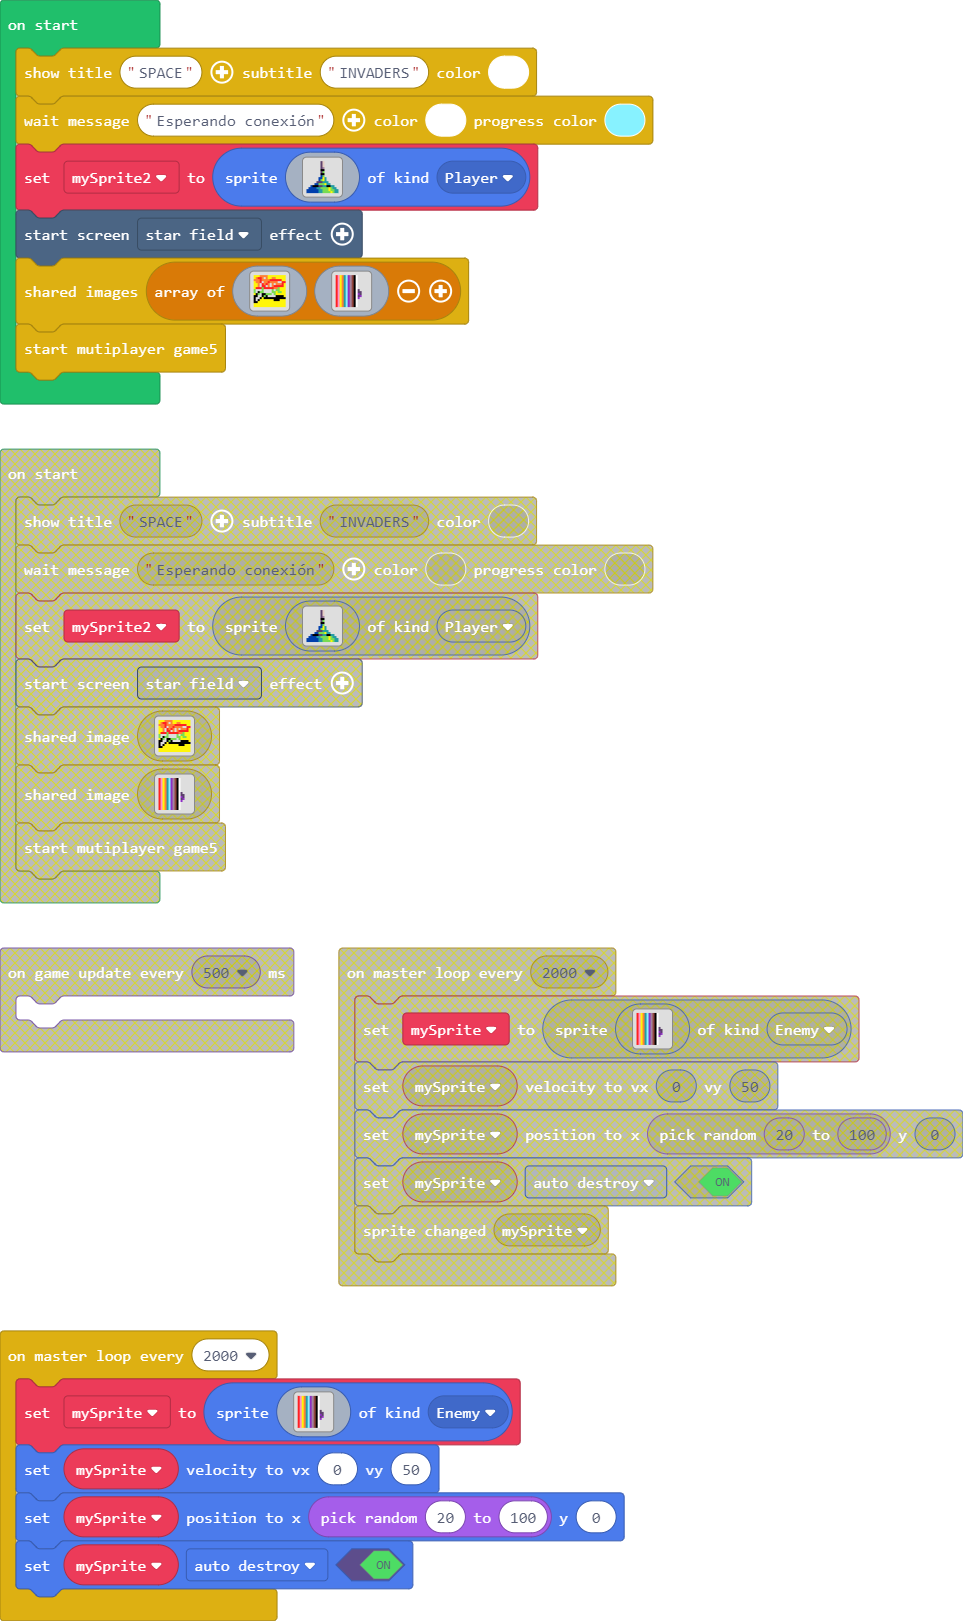
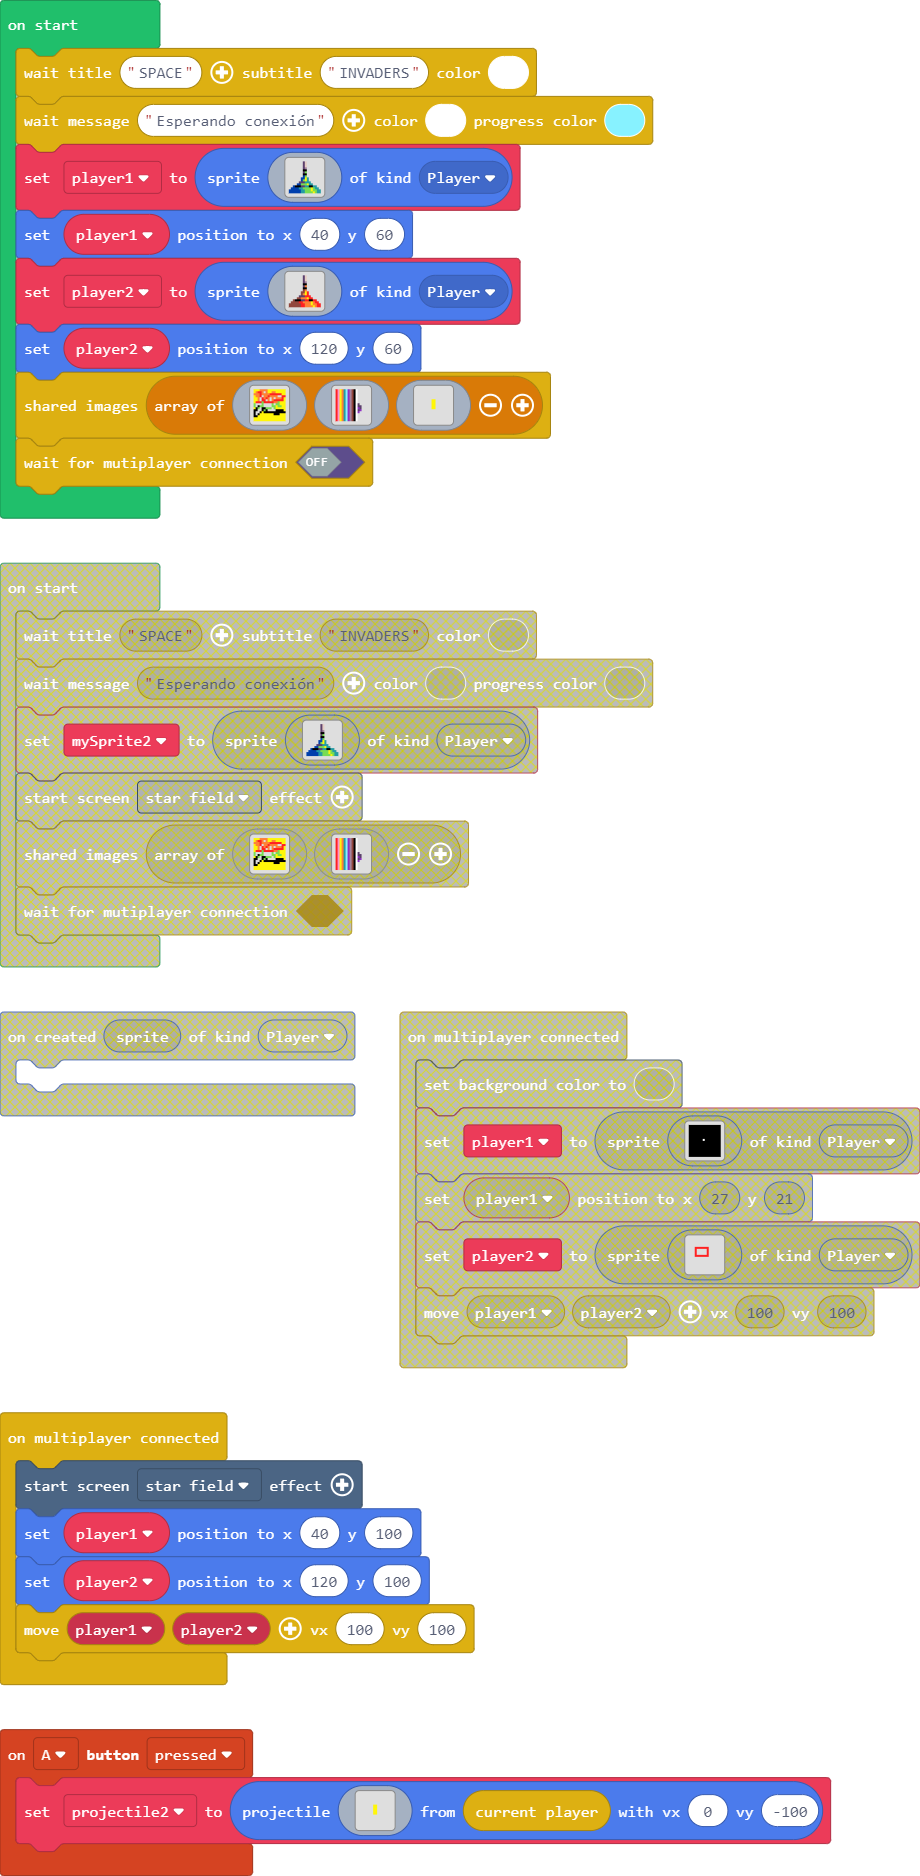
Update main.blocks, main.ts, multiplayer.ts

diff --git a/main.ts b/main.ts
@@ -21,56 +21,39 @@ multiplayer.onMasterLoop(2000, function () {
     mySprite.setPosition(Math.randomRange(20, 100), 0)
     mySprite.setFlag(SpriteFlag.AutoDestroy, true)
 })
-sprites.onCreated(SpriteKind.Player, function (sprite) {
-	
+controller.A.onEvent(ControllerButtonEvent.Pressed, function () {
+    projectile2 = sprites.createProjectileFromSprite(img`
+. . . . . . . . . . . . . . . . 
+. . . . . . . . . . . . . . . . 
+. . . . . . . . . . . . . . . . 
+. . . . . . . . . . . . . . . . 
+. . . . . . . . . . . . . . . . 
+. . . . . . . 5 5 . . . . . . . 
+. . . . . . . 5 5 . . . . . . . 
+. . . . . . . 5 5 . . . . . . . 
+. . . . . . . 5 5 . . . . . . . 
+. . . . . . . 5 5 . . . . . . . 
+. . . . . . . . . . . . . . . . 
+. . . . . . . . . . . . . . . . 
+. . . . . . . . . . . . . . . . 
+. . . . . . . . . . . . . . . . 
+. . . . . . . . . . . . . . . . 
+. . . . . . . . . . . . . . . . 
+`, multiplayer.CurrentPlayer(), 0, -100)
 })
 multiplayer.onConnected(function () {
-    scene.setBackgroundColor(4)
-    player1 = sprites.create(img`
-f f f f f f f f f f f f f f f f 
-f f f f f f f f f f f f f f f f 
-f f f f f f f f f f f f f f f f 
-f f f f f f f f f f f f f f f f 
-f f f f f f f f f f f f f f f f 
-f f f f f f f f f f f f f f f f 
-f f f f f f f f f f f f f f f f 
-f f f f f f f 1 f f f f f f f f 
-f f f f f f f f f f f f f f f f 
-f f f f f f f f f f f f f f f f 
-f f f f f f f f f f f f f f f f 
-f f f f f f f f f f f f f f f f 
-f f f f f f f f f f f f f f f f 
-f f f f f f f f f f f f f f f f 
-f f f f f f f f f f f f f f f f 
-f f f f f f f f f f f f f f f f 
-`, SpriteKind.Player)
-    player1.setPosition(27, 21)
-    player2 = sprites.create(img`
-. . . . . . . . . . . . . . . . 
-. . . . . . . . . . . . . . . . 
-. . . . . . . . . . . . . . . . 
-. . . . . . . . . . . . . . . . 
-. . . 2 2 2 2 2 2 2 . . . . . . 
-. . . 2 . . . . . 2 . . . . . . 
-. . . 2 . . . . . 2 . . . . . . 
-. . . 2 . . . . . 2 . . . . . . 
-. . . 2 2 2 2 2 2 2 . . . . . . 
-. . . . . . . . . . . . . . . . 
-. . . . . . . . . . . . . . . . 
-. . . . . . . . . . . . . . . . 
-. . . . . . . . . . . . . . . . 
-. . . . . . . . . . . . . . . . 
-. . . . . . . . . . . . . . . . 
-. . . . . . . . . . . . . . . . 
-`, SpriteKind.Player)
+    effects.starField.startScreenEffect()
+    player1.setPosition(40, 100)
+    player2.setPosition(120, 100)
     multiplayer.movePlayers(player1, player2, 100, 100)
 })
+let projectile2: Sprite = null
+let mySprite: Sprite = null
 let player2: Sprite = null
 let player1: Sprite = null
-let mySprite: Sprite = null
 multiplayer.drawTitle("SPACE", "INVADERS", 1)
 multiplayer.waitMessage("Esperando conexión", 1, 9)
-let mySprite2 = sprites.create(img`
+player1 = sprites.create(img`
 . . . . . . . c d . . . . . . . 
 . . . . . . . c d . . . . . . . 
 . . . . . . . c d . . . . . . . 
@@ -88,7 +71,26 @@ let mySprite2 = sprites.create(img`
 8 8 8 8 8 8 6 6 7 7 7 5 7 7 6 6 
 8 8 8 8 8 8 6 6 7 7 7 7 5 7 6 6 
 `, SpriteKind.Player)
-effects.starField.startScreenEffect()
+player1.setPosition(40, 60)
+player2 = sprites.create(img`
+. . . . . . . c d . . . . . . . 
+. . . . . . . c d . . . . . . . 
+. . . . . . . c d . . . . . . . 
+. . . . . . . c b . . . . . . . 
+. . . . . . . f f . . . . . . . 
+. . . . . . . c 4 . . . . . . . 
+. . . . . . . f f . . . . . . . 
+. . . . . . . e 4 . . . . . . . 
+. . . . . . e e 5 2 . . . . . . 
+. . . . . . e 4 5 2 . . . . . . 
+. . . . . c c c 2 2 2 . . . . . 
+. . . . e e 4 4 4 5 2 2 . . . . 
+. . e f f f c c 2 2 f f 2 2 . . 
+. e e e e 2 2 4 4 4 4 5 4 2 2 . 
+e e e e e e 2 2 4 4 4 5 4 4 2 2 
+e e e e e e 2 2 4 4 4 4 5 4 2 2 
+`, SpriteKind.Player)
+player2.setPosition(120, 60)
 multiplayer.sharedImgs([img`
 5 5 5 4 4 4 4 5 5 5 5 5 5 5 5 5 
 5 4 2 2 4 . 4 5 5 4 4 5 5 5 5 5 
@@ -123,5 +125,22 @@ f f 5 5 5 5 5 5 5 5 5 5 5 5 5 5
 2 3 5 4 6 9 a b e f 1 . . . . . 
 2 3 5 4 6 9 a b e f 1 . . . . . 
 2 3 5 4 6 9 a b e f 1 . . . . . 
+`, img`
+. . . . . . . . . . . . . . . . 
+. . . . . . . . . . . . . . . . 
+. . . . . . . . . . . . . . . . 
+. . . . . . . . . . . . . . . . 
+. . . . . . . . . . . . . . . . 
+. . . . . . . 5 5 . . . . . . . 
+. . . . . . . 5 5 . . . . . . . 
+. . . . . . . 5 5 . . . . . . . 
+. . . . . . . 5 5 . . . . . . . 
+. . . . . . . 5 5 . . . . . . . 
+. . . . . . . . . . . . . . . . 
+. . . . . . . . . . . . . . . . 
+. . . . . . . . . . . . . . . . 
+. . . . . . . . . . . . . . . . 
+. . . . . . . . . . . . . . . . 
+. . . . . . . . . . . . . . . . 
 `])
-multiplayer.multiPlayerStart()
+multiplayer.multiPlayerStart(false)

diff --git a/multiplayer.ts b/multiplayer.ts
@@ -27,20 +27,7 @@ function imageCRC( im:Image):number{
 }
 
 function test(){
-    let b: Buffer = control.createBuffer(0);
-    let im: Image = pl1.image;
-
-    if (pl1 == undefined) return;
-
-
-
-    //pl1.image.setRows(2, b);
-    console.log("buffer");
-    console.log(imageCRC(im) );
-
-    createSprite(100, 50, 10, 100, 26064);
-    
-  //  console.log(jacdac.jd_crc(b));
+ 
 }
 
 
@@ -106,12 +93,24 @@ function test(){
 
 
     //% blockId=multiPlayerStart
-    //% block="start mutiplayer game5"
-    export function multiPlayerStart():void {
+    //% block="wait for mutiplayer connection %activate=toggleOnOff"
+    export function multiPlayerStart(activate: boolean ):void {
        
+       if(! activate) return;
         jacdac.controllerService.stop();
         useHWMultiplayer = true;
        
+    }
+
+    //% blockId=CurrentPlayer
+    //% block="current player"
+    export function CurrentPlayer(): Sprite {
+
+        if( isPlayerOne() ){
+            return pl1;
+        }
+        return pl2;
+
     }
 
     //% blockId=SrpiteChanged
@@ -146,6 +145,9 @@ function test(){
     }
 
 
+
+
+
     //% blockId=onConnected block="on multiplayer connected"
     //% blockAllowMultiple=0
     export function onConnected(a: () => void): void {
@@ -172,7 +174,7 @@ function test(){
     }
 
     // group="Gameplay"
-    //% blockId=drawTitle block="show title $text || subtitle $sub | color %color=colorindexpicker"
+    //% blockId=drawTitle block="wait title $text || subtitle $sub | color %color=colorindexpicker"
     //% blockAllowMultiple=0
     //% color.defl=1
     //% color.min=1 color.max=15
@@ -281,8 +283,21 @@ function test(){
 
     })
 
+    sprites.onCreated(SpriteKind.Projectile, function (sprite) {
+
+        newCreated.push(sprite);
+
+    })
+
+    sprites.onCreated(SpriteKind.Food, function (sprite) {
+
+        newCreated.push(sprite);
+
+    })
 
 
+  
+   
    
     function createSprite(x: number, y: number, vx: number, vy: number, imgcrc:number) {
         
